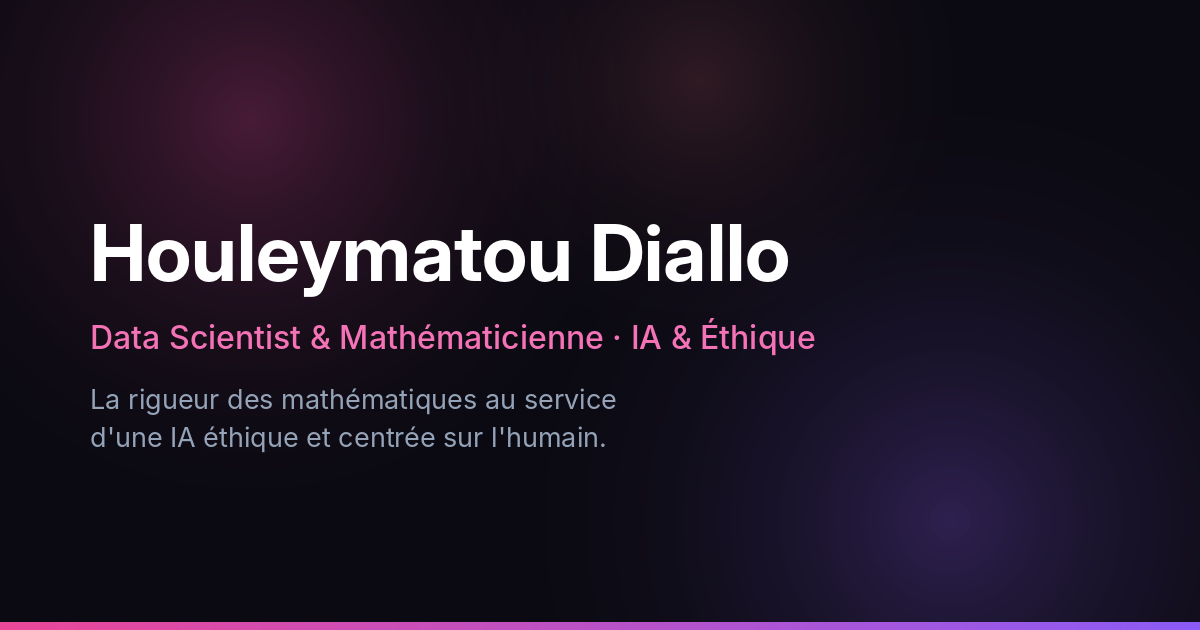
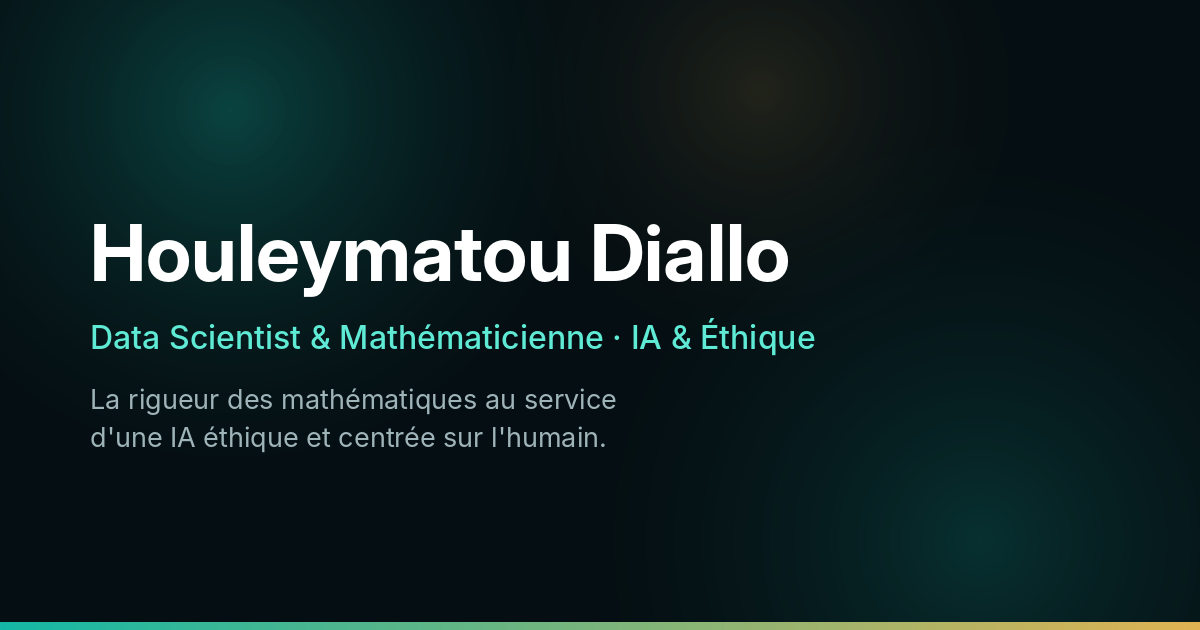
design: palette turquoise et doree
Le rose et le violet partaient dans le decoratif. Turquoise en couleur
principale, dore en accent sur les elements pleins, et le degrade de
texte reste dans la famille turquoise pour eviter le vert kaki.

Changed region(s): [[0.0617, 0.0, 0.37, 0.4825], [0.0, 0.6333, 1.0, 1.0], [0.0617, 0.5127, 0.6783, 0.573]]

diff --git a/src/styles/global.css b/src/styles/global.css
@@ -5,22 +5,23 @@
 
 /* ============================================================
    PALETTE & TOKENS DE DESIGN
-   Moderne, féminine, élégante : rose magenta → violet,
-   touche corail, base neutre douce.
+   Turquoise profond en couleur principale, doré en accent.
+   Le doré ne sert jamais de couleur de texte sur fond clair,
+   son contraste y est insuffisant.
    ============================================================ */
 @theme {
   /* Couleurs de marque */
-  --color-brand-50: #fdf2f8;
-  --color-brand-100: #fce7f3;
-  --color-brand-200: #fbcfe8;
-  --color-brand-300: #f9a8d4;
-  --color-brand-400: #f472b6;
-  --color-brand-500: #ec4899;
-  --color-brand-600: #db2777;
-  --color-brand-700: #be185d;
+  --color-brand-50: #ecfdf7;
+  --color-brand-100: #d1faee;
+  --color-brand-200: #a5f0dd;
+  --color-brand-300: #6ee0c8;
+  --color-brand-400: #34cbb0;
+  --color-brand-500: #16a99a;
+  --color-brand-600: #0f766e;
+  --color-brand-700: #115e59;
 
-  --color-violet-accent: #8b5cf6;
-  --color-coral: #fb7185;
+  --color-gold: #e0b352;
+  --color-sand: #f0d9a8;
 
   /* Polices */
   --font-sans: "Plus Jakarta Sans", ui-sans-serif, system-ui, sans-serif;
@@ -69,6 +70,25 @@ html {
   -webkit-font-smoothing: antialiased;
 }
 
+/* Le dégradé de texte reste dans la famille turquoise : le passage direct du
+   turquoise au doré traverse un vert kaki peu flatteur. Le doré vit ailleurs,
+   sur des éléments pleins, où il se lit franchement. */
+:root {
+  --grad-1: #0f766e;
+  --grad-2: #16a99a;
+  --grad-3: #0b8f84;
+}
+
+.dark {
+  --grad-1: #14b8a6;
+  --grad-2: #6ee0c8;
+  --grad-3: #2dd4bf;
+}
+
+/* Accent doré, assombri sur fond clair pour rester lisible. */
+.accent-gold { color: #a5761f; }
+.dark .accent-gold { color: var(--color-gold); }
+
 body {
   font-family: var(--font-sans);
   @apply bg-white text-slate-800 dark:bg-slate-950 dark:text-slate-200;
@@ -77,16 +97,18 @@ body {
 
 /* Dégradé de marque réutilisable */
 .text-gradient {
-  background: linear-gradient(120deg, var(--color-brand-500), var(--color-violet-accent), var(--color-coral));
-  background-size: 200% 200%;
+  background: linear-gradient(120deg, var(--grad-1), var(--grad-2), var(--grad-3));
+  /* Un peu plus large que le texte : le doré de fin reste visible au repos. */
+  background-size: 140% 140%;
   -webkit-background-clip: text;
   background-clip: text;
   color: transparent;
   animation: var(--animate-gradient);
 }
 
+/* Les boutons portent du texte blanc : le dégradé reste dans les tons foncés. */
 .bg-gradient-brand {
-  background: linear-gradient(120deg, var(--color-brand-500), var(--color-violet-accent));
+  background: linear-gradient(120deg, var(--color-brand-600), var(--color-brand-700));
 }
 
 /* ============================================================
@@ -155,7 +177,7 @@ body {
   width: 100%;
   transform: scaleX(0);
   transform-origin: 0 50%;
-  background: linear-gradient(90deg, var(--color-brand-500), var(--color-violet-accent), var(--color-coral));
+  background: linear-gradient(90deg, var(--color-brand-500), var(--color-gold), var(--color-sand));
   z-index: 60;
   will-change: transform;
 }
@@ -172,7 +194,7 @@ body {
   width: 3rem;
   border-radius: 9999px;
   color: white;
-  background: linear-gradient(120deg, var(--color-brand-500), var(--color-violet-accent));
+  background: linear-gradient(120deg, var(--color-brand-500), var(--color-gold));
   box-shadow: 0 10px 30px -5px color-mix(in srgb, var(--color-brand-500) 50%, transparent);
   opacity: 0;
   transform: translateY(20px) scale(0.8);
@@ -219,7 +241,7 @@ body {
   width: 100%;
   transform: scaleX(0);
   transform-origin: right;
-  background: linear-gradient(90deg, var(--color-brand-500), var(--color-violet-accent));
+  background: linear-gradient(90deg, var(--color-brand-500), var(--color-gold));
   transition: transform 0.3s ease;
 }
 .link-underline:hover::after {
